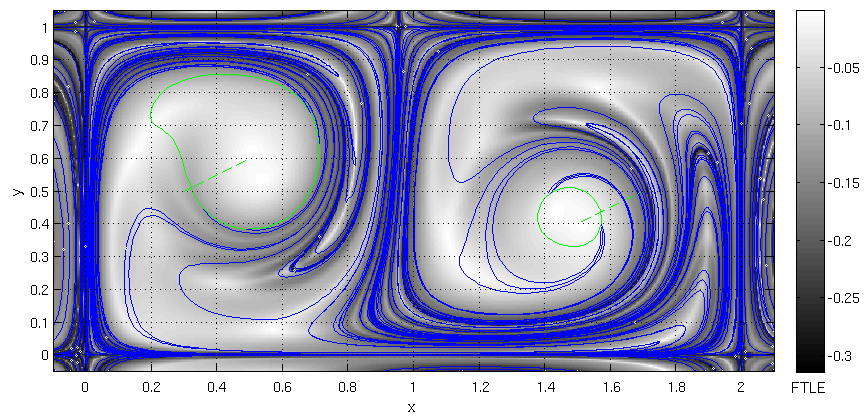
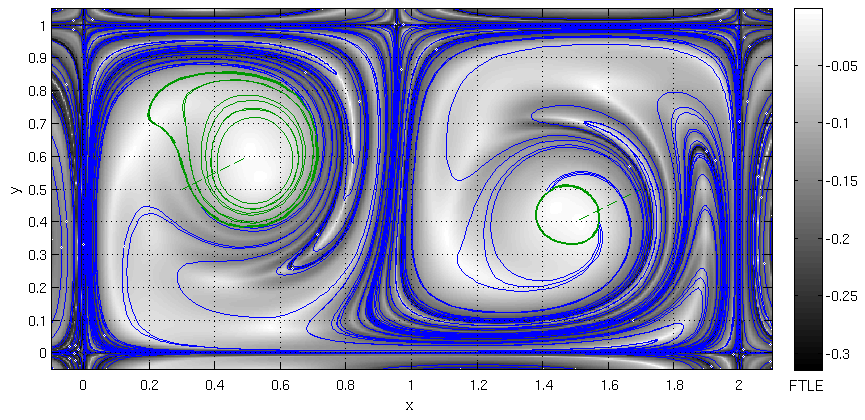
Update double gyre demo to account for changes to poincare_closed_orbit

Changed region(s): [[0.0312, 0.0, 0.9988, 0.9286], [0.2185, 0.7119, 0.2497, 0.7429], [0.2185, 0.5571, 0.2497, 0.5881]]

diff --git a/demo/double_gyre/hyperbolic_shear_lcs_details.m b/demo/double_gyre/hyperbolic_shear_lcs_details.m
@@ -17,6 +17,10 @@ doubleGyre.strainline = set_strainline_ode_solver_options(odeset('relTol',1e-6),
 gridSpace = diff(doubleGyre.flow.domain(1,:))/(double(doubleGyre.flow.resolution(1))-1);
 localMaxDistance = 2*gridSpace;
 
+forwardLcsColor = 'r';
+backwardLcsColor = 'b';
+shearLcsColor = [0,.6,0];
+
 %% Forward-time LCS analysis
 % Compute Cauchy-Green strain eigenvalues and eigenvectors
 method.name = 'finiteDifference';
@@ -47,7 +51,7 @@ poincareSection{1}.integrationLength = [0,2*(2*pi*rOrbit)];
 
 % Plot Poincare section
 hPoincareSection = arrayfun(@(idx)plot(hAxes,poincareSection{idx}.endPosition(:,1),poincareSection{idx}.endPosition(:,2)),numel(poincareSection));
-set(hPoincareSection,'color','g')
+set(hPoincareSection,'color',shearLcsColor)
 set(hPoincareSection,'linestyle','--')
 drawnow
 
@@ -58,36 +62,44 @@ odeSolverOptions = odeset('relTol',1e-3);
 nBisection = 2;
 dThresh = 1e-2;
 closedOrbitPos = poincare_closed_orbit(doubleGyre.flow,etaPos,poincareSection{1},odeSolverOptions,nBisection,dThresh,showGraph);
-hClosedOrbit = plot(hAxes,closedOrbitPos(:,1),closedOrbitPos(:,2));
-set(hClosedOrbit,'color','g')
-drawnow
+
+% Plot closed orbits
+hClosedOrbits = cellfun(@(position)plot(hAxes,position(:,1),position(:,2)),closedOrbitPos);
+set(hClosedOrbits,'color',shearLcsColor)
+hOuterClosedOrbit = plot(hAxes,closedOrbitPos{end}(:,1),closedOrbitPos{end}(:,2));
+set(hOuterClosedOrbit,'color',shearLcsColor)
+set(hOuterClosedOrbit,'LineWidth',2)
 
 % Repeat for second Poincare section, with etaNeg vector
 poincareSection{1}.endPosition = [1.5,.4;1.7,.5];
 rOrbit = hypot(diff(poincareSection{1}.endPosition(:,1)),diff(poincareSection{1}.endPosition(:,2)));
 poincareSection{1}.integrationLength = [0,2*(2*pi*rOrbit)];
 hPoincareSection = arrayfun(@(idx)plot(hAxes,poincareSection{idx}.endPosition(:,1),poincareSection{idx}.endPosition(:,2)),numel(poincareSection));
-set(hPoincareSection,'color','g')
+set(hPoincareSection,'color',shearLcsColor)
 set(hPoincareSection,'linestyle','--')
 drawnow
+
 closedOrbitNeg = poincare_closed_orbit(doubleGyre.flow,etaNeg,poincareSection{1},odeSolverOptions,nBisection,dThresh,showGraph);
-hClosedOrbit = plot(hAxes,closedOrbitNeg(:,1),closedOrbitNeg(:,2));
-set(hClosedOrbit,'color','g')
-drawnow
+
+hClosedOrbits = cellfun(@(position)plot(hAxes,position(:,1),position(:,2)),closedOrbitNeg);
+set(hClosedOrbits,'color',shearLcsColor)
+hOuterClosedOrbit = plot(hAxes,closedOrbitNeg{end}(:,1),closedOrbitNeg{end}(:,2));
+set(hOuterClosedOrbit,'color',shearLcsColor)
+set(hOuterClosedOrbit,'LineWidth',2)
 
 % Compute strainlines
 [strainlinePosition,strainlineInitialPosition] = seed_curves_from_lambda_max(localMaxDistance,doubleGyre.strainline.maxLength,cgEigenvalue(:,:,2),cgEigenvector(:,:,1:2),doubleGyre.flow.domain,doubleGyre.flow.periodicBc);
-strainlinePosition = remove_strain_in_shear(strainlinePosition,closedOrbitPos);
-strainlinePosition = remove_strain_in_shear(strainlinePosition,closedOrbitNeg);
+strainlinePosition = remove_strain_in_shear(strainlinePosition,closedOrbitPos{end});
+strainlinePosition = remove_strain_in_shear(strainlinePosition,closedOrbitNeg{end});
 
 % Plot strainlines
 hStrainline = cellfun(@(position)plot(hAxes,position(:,1),position(:,2)),strainlinePosition);
-set(hStrainline,'color','r')
+set(hStrainline,'color',forwardLcsColor)
 hStrainlineInitialPosition = arrayfun(@(idx)plot(hAxes,strainlineInitialPosition(1,idx),strainlineInitialPosition(2,idx)),1:size(strainlineInitialPosition,2));
 set(hStrainlineInitialPosition,'MarkerSize',2)
 set(hStrainlineInitialPosition,'marker','o')
 set(hStrainlineInitialPosition,'MarkerEdgeColor','w')
-set(hStrainlineInitialPosition,'MarkerFaceColor','r')
+set(hStrainlineInitialPosition,'MarkerFaceColor',forwardLcsColor)
 drawnow
 
 %% Backward-time LCS analysis
@@ -118,7 +130,7 @@ poincareSection{1}.integrationLength = [0,2*(2*pi*rOrbit)];
 
 % Plot Poincare section
 hPoincareSection = arrayfun(@(idx)plot(hAxes,poincareSection{idx}.endPosition(:,1),poincareSection{idx}.endPosition(:,2)),numel(poincareSection));
-set(hPoincareSection,'color','g')
+set(hPoincareSection,'color',shearLcsColor)
 set(hPoincareSection,'linestyle','--')
 drawnow
 
@@ -129,33 +141,40 @@ odeSolverOptions = odeset('relTol',1e-3);
 nBisection = 2;
 dThresh = 1e-2;
 closedOrbitPos = poincare_closed_orbit(doubleGyreBackward.flow,etaNeg,poincareSection{1},odeSolverOptions,nBisection,dThresh,showGraph);
-hClosedOrbit = plot(hAxes,closedOrbitPos(:,1),closedOrbitPos(:,2));
-set(hClosedOrbit,'color','g')
-drawnow
+
+hClosedOrbits = cellfun(@(position)plot(hAxes,position(:,1),position(:,2)),closedOrbitPos);
+set(hClosedOrbits,'color',shearLcsColor)
+hOuterClosedOrbit = plot(hAxes,closedOrbitPos{end}(:,1),closedOrbitPos{end}(:,2));
+set(hOuterClosedOrbit,'color',shearLcsColor)
+set(hOuterClosedOrbit,'LineWidth',2)
 
 % Repeat for second Poincare section, with etaPos vector
 poincareSection{1}.endPosition = [1.5,.4;1.7,.5];
 rOrbit = hypot(diff(poincareSection{1}.endPosition(:,1)),diff(poincareSection{1}.endPosition(:,2)));
 poincareSection{1}.integrationLength = [0,2*(2*pi*rOrbit)];
 hPoincareSection = arrayfun(@(idx)plot(hAxes,poincareSection{idx}.endPosition(:,1),poincareSection{idx}.endPosition(:,2)),numel(poincareSection));
-set(hPoincareSection,'color','g')
+set(hPoincareSection,'color',shearLcsColor)
 set(hPoincareSection,'linestyle','--')
 drawnow
+
 closedOrbitNeg = poincare_closed_orbit(doubleGyre.flow,etaPos,poincareSection{1},odeSolverOptions,nBisection,dThresh,showGraph);
-hClosedOrbit = plot(hAxes,closedOrbitNeg(:,1),closedOrbitNeg(:,2));
-set(hClosedOrbit,'color','g')
-drawnow
+
+hClosedOrbits = cellfun(@(position)plot(hAxes,position(:,1),position(:,2)),closedOrbitNeg);
+set(hClosedOrbits,'color',shearLcsColor)
+hOuterClosedOrbit = plot(hAxes,closedOrbitNeg{end}(:,1),closedOrbitNeg{end}(:,2));
+set(hOuterClosedOrbit,'color',shearLcsColor)
+set(hOuterClosedOrbit,'LineWidth',2)
 
 % Compute strainlines
 [strainlinePosition,strainlineInitialPosition] = seed_curves_from_lambda_max(localMaxDistance,doubleGyreBackward.strainline.maxLength,cgEigenvalue(:,:,2),cgEigenvector(:,:,1:2),doubleGyreBackward.flow.domain,doubleGyreBackward.flow.periodicBc);
-strainlinePosition = remove_strain_in_shear(strainlinePosition,closedOrbitPos);
-strainlinePosition = remove_strain_in_shear(strainlinePosition,closedOrbitNeg);
+strainlinePosition = remove_strain_in_shear(strainlinePosition,closedOrbitPos{end});
+strainlinePosition = remove_strain_in_shear(strainlinePosition,closedOrbitNeg{end});
 
 % Plot strainlines
 hStrainline = cellfun(@(position)plot(hAxes,position(:,1),position(:,2)),strainlinePosition);
-set(hStrainline,'color','b')
+set(hStrainline,'color',backwardLcsColor)
 hStrainlineInitialPosition = arrayfun(@(idx)plot(hAxes,strainlineInitialPosition(1,idx),strainlineInitialPosition(2,idx)),1:size(strainlineInitialPosition,2));
 set(hStrainlineInitialPosition,'MarkerSize',2)
 set(hStrainlineInitialPosition,'marker','o')
 set(hStrainlineInitialPosition,'MarkerEdgeColor','w')
-set(hStrainlineInitialPosition,'MarkerFaceColor','b')
+set(hStrainlineInitialPosition,'MarkerFaceColor',backwardLcsColor)
